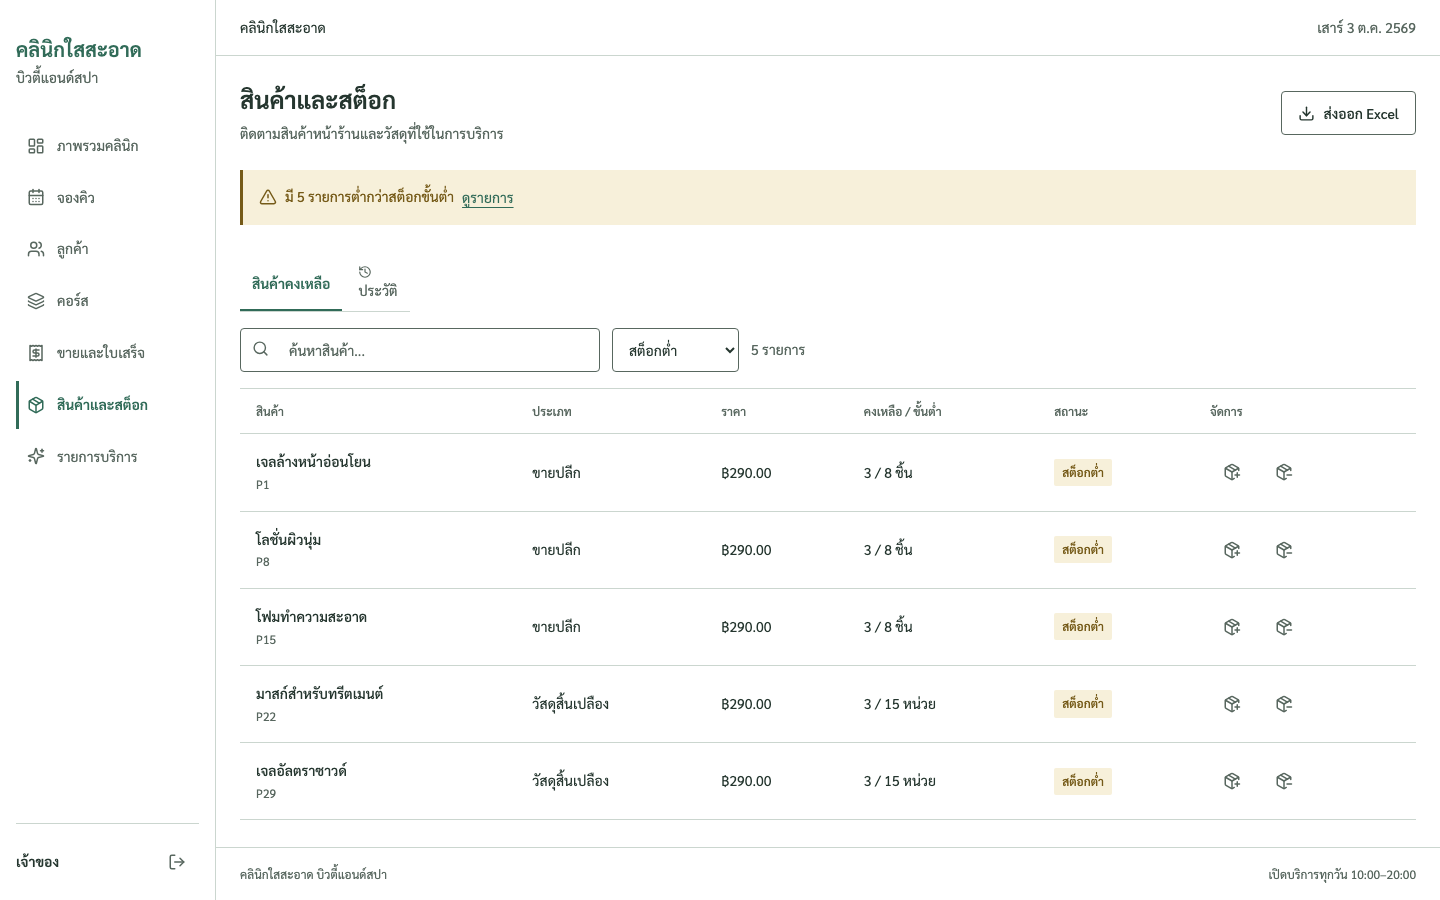
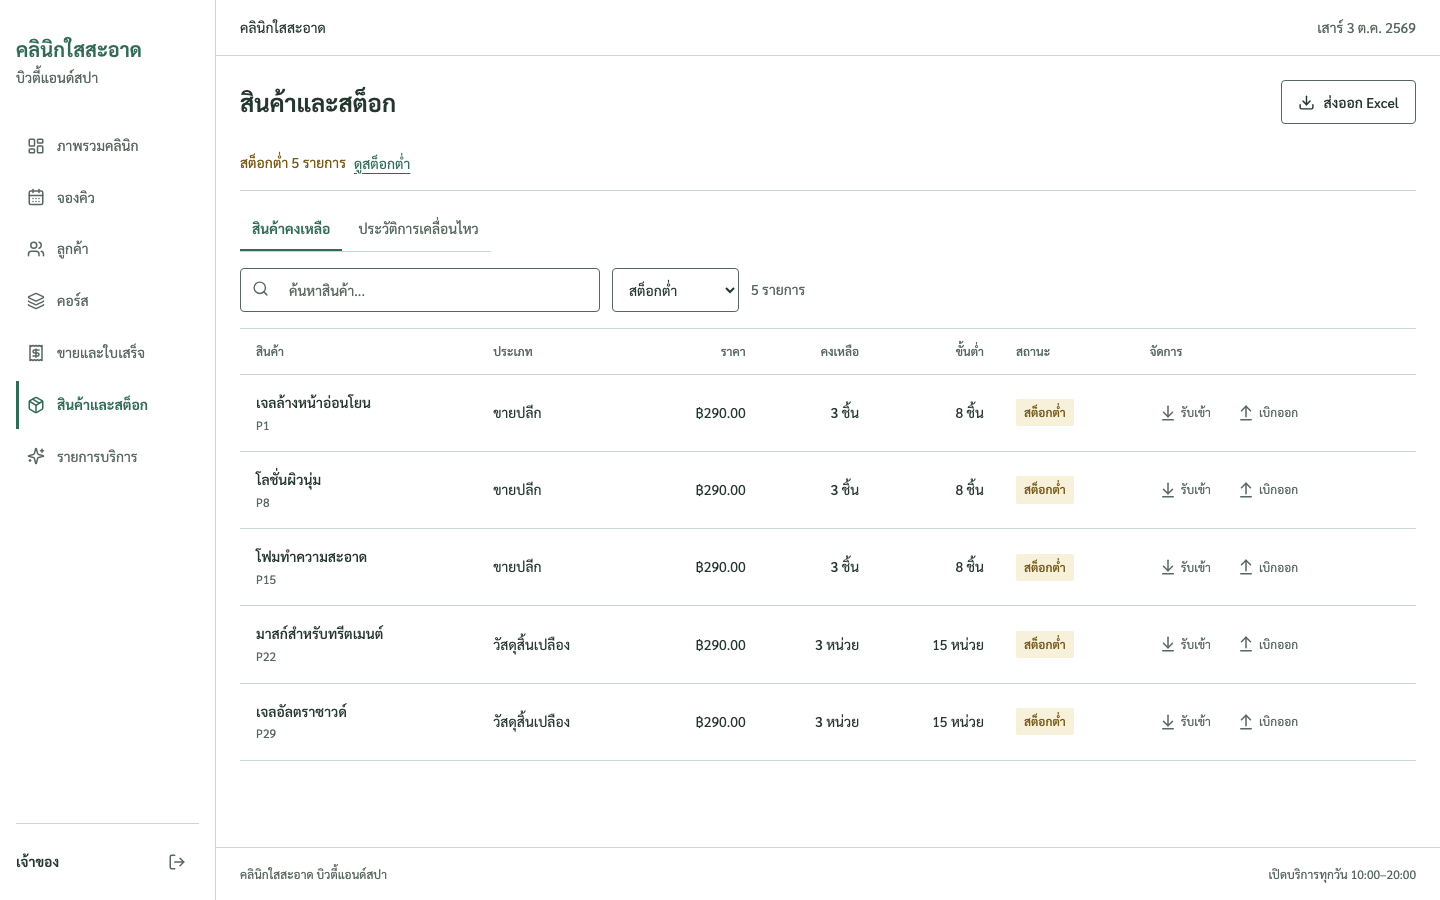
style(stock): separate balances minimums and movement actions

diff --git a/src/features/inventory/Inventory.tsx b/src/features/inventory/Inventory.tsx
@@ -1,5 +1,5 @@
-import { useState, type FormEvent } from 'react';
-import { Search, Download, PackagePlus, PackageMinus, History, AlertTriangle } from 'lucide-react';
+import { useId, useState, type FormEvent } from 'react';
+import { Search, Download, ArrowDownToLine, ArrowUpFromLine } from 'lucide-react';
 import { toast } from 'sonner';
 import { useClinic } from '../../services/useClinic';
 import { getService } from '../../services';
@@ -8,6 +8,7 @@ import { Empty, Modal, PageTitle, Skeleton } from '../../components/ui';
 import { errorMessage, money, thaiDate } from '../../lib/format';
 import { exportExcel } from '../../lib/export';
 export function Inventory() {
+  const formId = useId();
   const { data, error, refresh } = useClinic();
   const [search, setSearch] = useState('');
   const [filter, setFilter] = useState('all');
@@ -51,17 +52,27 @@ export function Inventory() {
   }
   const controls = (item: Product) => (
     <div className="actions">
-      <button className="icon-button" title={'รับเข้า ' + item.name} onClick={() => open(item, 1)}>
-        <PackagePlus size={18} />
+      <button
+        className="icon-button stock-tool"
+        title={'รับเข้าสินค้า ' + item.name}
+        onClick={() => open(item, 1)}
+      >
+        <ArrowDownToLine size={18} />
+        <span>รับเข้า</span>
       </button>
-      <button className="icon-button" title={'เบิกออก ' + item.name} onClick={() => open(item, -1)}>
-        <PackageMinus size={18} />
+      <button
+        className="icon-button stock-tool"
+        title={'เบิกออกสินค้า ' + item.name}
+        onClick={() => open(item, -1)}
+      >
+        <ArrowUpFromLine size={18} />
+        <span>เบิกออก</span>
       </button>
     </div>
   );
   return (
     <div data-ready="true">
-      <PageTitle title="สินค้าและสต็อก" subtitle="ติดตามสินค้าหน้าร้านและวัสดุที่ใช้ในการบริการ">
+      <PageTitle title="สินค้าและสต็อก">
         <button
           className="button secondary"
           onClick={() =>
@@ -82,23 +93,21 @@ export function Inventory() {
           ส่งออก Excel
         </button>
       </PageTitle>
-      <div className="warning-note actions">
-        <AlertTriangle size={18} />
+      <div className="stock-exceptions actions">
         <span>
-          มี {data.products.filter((item) => item.stock <= item.minimum).length}{' '}
-          รายการต่ำกว่าสต็อกขั้นต่ำ
+          สต็อกต่ำ {data.products.filter((item) => item.stock <= item.minimum).length} รายการ
         </span>
         <button className="link" onClick={() => setFilter('low')}>
-          ดูรายการ
+          ดูสต็อกต่ำ
         </button>
       </div>
-      <div className="toolbar section">
+      <div className="toolbar">
         <div className="segmented">
           <button className={tab === 'stock' ? 'active' : ''} onClick={() => setTab('stock')}>
             สินค้าคงเหลือ
           </button>
           <button className={tab === 'history' ? 'active' : ''} onClick={() => setTab('history')}>
-            <History size={14} /> ประวัติ
+            ประวัติการเคลื่อนไหว
           </button>
         </div>
       </div>
@@ -116,7 +125,7 @@ export function Inventory() {
             </div>
             <select
               aria-label="กรองสินค้า"
-              style={{ width: 'auto' }}
+              className="stock-filter"
               value={filter}
               onChange={(event) => setFilter(event.target.value)}
             >
@@ -135,8 +144,9 @@ export function Inventory() {
                     <tr>
                       <th>สินค้า</th>
                       <th>ประเภท</th>
-                      <th>ราคา</th>
-                      <th>คงเหลือ / ขั้นต่ำ</th>
+                      <th className="numeric">ราคา</th>
+                      <th className="numeric">คงเหลือ</th>
+                      <th className="numeric">ขั้นต่ำ</th>
                       <th>สถานะ</th>
                       <th>จัดการ</th>
                     </tr>
@@ -149,18 +159,21 @@ export function Inventory() {
                           <p className="small muted">{item.id.toUpperCase()}</p>
                         </td>
                         <td>{item.kind === 'retail' ? 'ขายปลีก' : 'วัสดุสิ้นเปลือง'}</td>
-                        <td>{money(item.price)}</td>
-                        <td>
-                          {item.stock} / {item.minimum} {item.unit}
+                        <td className="numeric">{money(item.price)}</td>
+                        <td className="numeric">
+                          <strong>{item.stock}</strong> {item.unit}
+                        </td>
+                        <td className="numeric">
+                          {item.minimum} {item.unit}
                         </td>
                         <td>
-                          <span
-                            className={
-                              'badge ' + (item.stock <= item.minimum ? 'low' : 'completed')
-                            }
-                          >
-                            {item.stock <= item.minimum ? 'สต็อกต่ำ' : 'พร้อมใช้งาน'}
-                          </span>
+                          {item.stock <= item.minimum ? (
+                            <span className={'badge ' + (item.stock === 0 ? 'cancelled' : 'low')}>
+                              {item.stock === 0 ? 'หมด' : 'สต็อกต่ำ'}
+                            </span>
+                          ) : (
+                            <span className="muted">พร้อมใช้งาน</span>
+                          )}
                         </td>
                         <td>{controls(item)}</td>
                       </tr>
@@ -176,23 +189,49 @@ export function Inventory() {
                       {item.stock <= item.minimum && <span className="badge low">สต็อกต่ำ</span>}
                     </div>
                     <div className="card-row-meta">
-                      <span>
-                        {item.kind === 'retail' ? 'ขายปลีก' : 'วัสดุสิ้นเปลือง'} ·{' '}
-                        {money(item.price)}
-                      </span>
+                      <span>{item.kind === 'retail' ? 'ขายปลีก' : 'วัสดุสิ้นเปลือง'}</span>
+                      <span className="numeric">{money(item.price)}</span>
                     </div>
                     <div className="card-row-head">
-                      <span className="small">
-                        คงเหลือ {item.stock} / ขั้นต่ำ {item.minimum}
-                      </span>
-                      {controls(item)}
+                      <dl className="stock-quantities">
+                        <div>
+                          <dt>คงเหลือ</dt>
+                          <dd className="numeric">
+                            <strong>{item.stock}</strong> {item.unit}
+                          </dd>
+                        </div>
+                        <div>
+                          <dt>ขั้นต่ำ</dt>
+                          <dd className="numeric">
+                            {item.minimum} {item.unit}
+                          </dd>
+                        </div>
+                      </dl>
                     </div>
+                    <div className="stock-actions">{controls(item)}</div>
                   </article>
                 ))}
               </div>
             </>
           ) : (
-            <Empty text="ไม่พบสินค้าที่ค้นหา" />
+            <Empty
+              text={
+                filter === 'low' && !search
+                  ? 'ไม่มีสินค้าที่ต่ำกว่าขั้นต่ำ'
+                  : 'ไม่พบสินค้าที่ตรงกับคำค้น'
+              }
+              hint="ล้างคำค้นหรือเปลี่ยนประเภทสินค้า"
+            >
+              <button
+                className="button secondary"
+                onClick={() => {
+                  setSearch('');
+                  setFilter('all');
+                }}
+              >
+                ดูสินค้าทั้งหมด
+              </button>
+            </Empty>
           )}
         </>
       ) : (
@@ -204,7 +243,9 @@ export function Inventory() {
                   {data.products.find((product) => product.id === item.productId)?.name}
                 </strong>
                 <p>
-                  {item.reason} · {thaiDate(item.date, 'd MMM HH:mm')}
+                  {item.reason}
+                  <br />
+                  {thaiDate(item.date, 'd MMM HH:mm')}
                 </p>
               </div>
               <span className={'badge ' + (item.quantity > 0 ? 'completed' : 'low')}>
@@ -219,11 +260,21 @@ export function Inventory() {
         title={direction > 0 ? 'รับเข้าสินค้า' : 'เบิกออกสินค้า'}
         open={!!product}
         onClose={() => setProduct(null)}
+        summary={
+          <>
+            <strong>{product?.name}</strong>
+            <span>
+              คงเหลือ {product?.stock} {product?.unit}
+            </span>
+          </>
+        }
+        footer={
+          <button className="button" type="submit" form={formId} disabled={busy}>
+            {busy ? 'กำลังบันทึก' : direction > 0 ? 'บันทึกรับเข้า' : 'บันทึกเบิกออก'}
+          </button>
+        }
       >
-        <form onSubmit={submit}>
-          <p>
-            {product?.name} <span className="muted">· คงเหลือ {product?.stock}</span>
-          </p>
+        <form id={formId} onSubmit={submit}>
           <label>
             จำนวน
             <input
@@ -249,9 +300,6 @@ export function Inventory() {
               {warning}
             </p>
           )}
-          <button className="button" disabled={busy}>
-            {busy ? 'กำลังบันทึก' : 'บันทึก'}
-          </button>
         </form>
       </Modal>
     </div>

diff --git a/src/styles.css b/src/styles.css
@@ -1710,6 +1710,48 @@ a.list-row:hover {
     max-height: 260px;
   }
 }
+.stock-exceptions {
+  margin-bottom: var(--space-4);
+  padding-bottom: var(--space-3);
+  border-bottom: var(--border-hairline) solid var(--rule);
+  color: var(--arrived-ink);
+}
+.stock-filter {
+  width: auto;
+  max-width: 100%;
+}
+.stock-tool {
+  width: auto;
+  min-width: var(--target-size);
+  padding: var(--space-2);
+  gap: var(--space-1);
+}
+.stock-tool span {
+  font-size: var(--text-meta);
+}
+.stock-quantities {
+  display: flex;
+  gap: var(--space-6);
+  margin: 0;
+  width: 100%;
+  justify-content: space-between;
+}
+.stock-quantities > div {
+  display: flex;
+  gap: var(--space-2);
+  align-items: baseline;
+}
+.stock-quantities dt {
+  color: var(--ink-muted);
+  font-size: var(--text-meta);
+}
+.stock-quantities dd {
+  margin: 0;
+}
+.stock-actions {
+  display: flex;
+  justify-content: flex-end;
+}
 .daily-book {
   display: grid;
   grid-template-columns: var(--dashboard-tracks);
